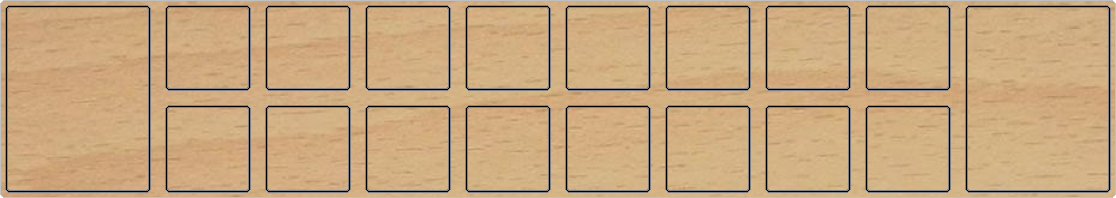
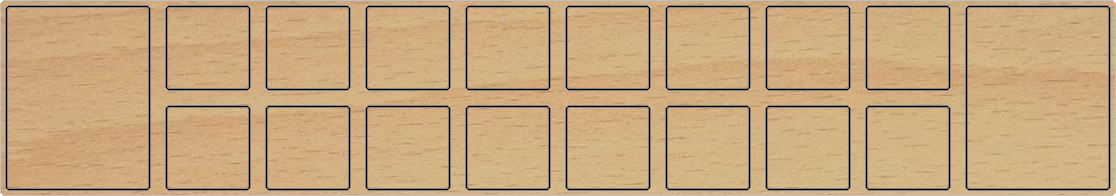
Ohvalhu (extension)

Changed region(s): [[0.1523, 0.4286, 0.853, 0.4898], [0.1523, 0.5204, 0.853, 0.551]]

diff --git a/src/debug/games/mancala/ohvalhu-extension.js b/src/debug/games/mancala/ohvalhu-extension.js
@@ -1,0 +1,200 @@
+(function() {
+
+Dagaz.Model.WIN_CNT = 64;
+Dagaz.Model.SIZE    = 17;
+
+Dagaz.View.DX       = 0;
+Dagaz.View.DY       = 0;
+Dagaz.View.MX       = 25;
+
+var checkVersion = Dagaz.Model.checkVersion;
+
+Dagaz.Model.checkVersion = function(design, name, value) {
+  if (name != "ohvalhu-extension") {
+      checkVersion(design, name, value);
+  }
+}
+
+var addReserve = function(x, y) {
+  var r = Math.abs(x) + y;
+  if (x < 0) {
+      return -r;
+  } else {
+      return r;
+  }
+}
+
+var toReserve = function(design, board, player, move, cnt) {
+  var pos = design.navigate(player, 0, 2);
+  if ((cnt != 0) && (pos !== null)) {
+      piece = board.getPiece(pos);
+      if (piece === null) {
+          piece = Dagaz.Model.createPiece(0, player);
+          piece = piece.setValue(0, cnt);
+          move.dropPiece(pos, piece);
+      } else {
+          cnt = addReserve(cnt, Math.abs(+piece.getValue(0)));
+          piece = piece.setValue(0, cnt);
+          move.movePiece(pos, pos, piece);
+      }
+  }
+}
+
+var CheckInvariants = Dagaz.Model.CheckInvariants;
+
+Dagaz.Model.CheckInvariants = function(board) {
+  var design = Dagaz.Model.design;
+  _.each(board.moves, function(move) {
+      var isPool = false;
+      var fr  = 0;
+      var dir = 0;
+      if (move.isSimpleMove()) {
+          var pos = move.actions[0][0][0];
+          if (design.inZone(1, board.player, pos)) {
+              move.failed = true;
+              return;
+          }
+          var piece = board.getPiece(pos);
+          var cnt = Math.abs(+piece.getValue(0));
+          var positions = [];
+          var result = [];
+          result.push(0);
+          positions.push(pos);
+          for (var ix = 1; cnt > 0; cnt--, ix++) {
+               pos = design.navigate(board.player, pos, dir);
+               if (pos === null) {
+                   move.failed = true;
+                   return;
+               }
+               piece = board.getPiece(pos);
+               while ((piece !== null) && (+piece.type == 2)) {
+                   pos = design.navigate(board.player, pos, dir);
+                   if (pos === null) {
+                       move.failed = true;
+                       return;
+                   }
+                   piece = board.getPiece(pos);
+               }
+               if (ix >= Dagaz.Model.SIZE) {
+                   ix = 0;
+               }
+               positions.push(pos);
+               if (ix < result.length) {
+                   result[ix]++;
+               } else {
+                   if (piece === null) {
+                       result.push(1);
+                   } else {
+                       result.push(Math.abs(+piece.getValue(0)) + 1);
+                   }
+               }
+          }
+          ix--;
+          var captured = [];
+          isPool = design.inZone(1, board.player, pos);
+          if ((result[ix] > 1) || isPool) {
+               result[ix] = -result[ix];
+          } else {
+               if (!isPool) {
+                   if (design.inZone(0, board.player, pos) && (result[ix] == 1)) {
+                       pos = design.navigate(board.player, pos, 4);
+                       if (pos !== null) {
+                           piece = board.getPiece(pos);
+                           if ((piece !== null) || (result.length == Dagaz.Model.SIZE) || (_.indexOf(positions, pos) >= 0)) {
+                               captured.push(pos);
+                               fr++;
+                               result[ix] = 0;
+                           }
+                       }
+                   }
+               }
+          }
+          var pos = move.actions[0][0][0];
+          for (var ix = 0; ix < result.length; ix++) {
+               if (_.indexOf(captured, pos) >= 0) {
+                   fr += result[ix];
+                   result[ix] = 0;
+                   captured = _.without(captured, pos);                   
+               }
+               pos = design.navigate(board.player, pos, dir);
+          }
+          _.each(captured, function(pos) {
+               piece = board.getPiece(pos);
+               if (piece !== null) {
+                   fr += Math.abs(+piece.getValue(0));
+                   move.capturePiece(pos);
+               }
+          });
+          var pos = move.actions[0][0][0];
+          for (var ix = 0; ix < result.length; ix++) {
+               piece = board.getPiece(pos);
+               while ((piece !== null) && (+piece.type == 2)) {
+                   pos = design.navigate(board.player, pos, dir);
+                   piece = board.getPiece(pos);
+               }
+               if (design.inZone(1, board.player, pos)) {
+                   result[ix] = addReserve(result[ix], fr);
+                   fr = 0;
+               }
+               var player = board.player;
+               if (!design.inZone(0, board.player, pos) && !design.inZone(1, board.player, pos) && (result[ix] > 0)) {
+                   player = design.nextPlayer(player);
+               }
+               var piece = Dagaz.Model.createPiece(0, player).setValue(0, result[ix]);
+               if (result[ix] == 0) {
+                   if (ix > 0) {
+                       move.capturePiece(pos);
+                       if (ix == 1) {
+                           move.actions[0][2] = [ Dagaz.Model.createPiece(1, board.player) ];
+                       }
+                   }
+               } else {
+                   if (piece !== null) {
+                       if (ix == 1) {
+                           move.actions[0][2] = [ piece ];
+                       } else {
+                           if ((ix > 0) && (board.getPiece(pos) !== null)) {
+                               move.movePiece(pos, pos, piece);
+                           } else {
+                               move.dropPiece(pos, piece);
+                           }
+                       }
+                   }
+               }
+               pos = design.navigate(board.player, pos, dir);
+          }
+          if (!isPool && (fr == 0)) {
+               _.each(design.allPositions(), function(pos) {
+                    if (design.inZone(1, board.player, pos)) {
+                        var piece = board.getPiece(pos);
+                        if (piece !== null) {
+                            var value = +piece.getValue(0);
+                            if (value < 0) {
+                                piece = piece.setValue(0, -value);
+                                move.movePiece(pos, pos, piece);
+                            }
+                        }
+                    }
+               });
+          }
+          toReserve(design, board, board.player, move, fr);
+      }
+  });
+  var ko = [];
+  _.each(design.allPositions(), function(pos) {
+      if (design.inZone(1, board.player, pos)) return;
+      var piece = board.getPiece(pos);
+      if (piece !== null) {
+          var value = +piece.getValue(0);
+          if ((value !== null) && (value < -1)) {
+              ko.push(pos);
+          }
+      }
+  });
+  if (ko.length > 0) {
+      board.ko = ko;
+  }
+  CheckInvariants(board);
+}
+
+})();

diff --git a/src/debug/games/mancala/ohvalhu.htm b/src/debug/games/mancala/ohvalhu.htm
@@ -25,9 +25,9 @@
 <img id="Ko" style="display:none" src="images/ko.png">
 
 <table style="margin:auto; font-family:sans-serif; font-size:14px" id="Table">
-<tr style="height:198px; vertical-align:top">
+<tr style="height:196px; vertical-align:top">
 <td id="CanvasCell" style="width:1116px">
-<canvas id="Canvas" width="1116" height="198" style="cursor:default">Broken canvas...</canvas>
+<canvas id="Canvas" width="1116" height="196" style="cursor:default">Broken canvas...</canvas>
 </td><td style="width:300px;">
 <div style="height:510px; overflow:auto" id="ScrollDiv">
 <img id="GlyphImage"><p id="HelpText"></p>
@@ -56,6 +56,8 @@
 <script src="../../kernel/controller/utils/move-list-v2.js"></script>
 <script src="mancala-view.js"></script>
 <script src="mancala-setup.js"></script>
+<script src="dakon-restrictions.js"></script>
+<script src="ohvalhu-extension.js"></script>
 <script src="ohvalhu.js"></script>
 <script src="../../kernel/controller/app-v2.js"></script>
 

diff --git a/src/debug/games/mancala/ohvalhu.js b/src/debug/games/mancala/ohvalhu.js
@@ -30,6 +30,7 @@ Dagaz.Model.BuildDesign = function(design) {
     design.checkVersion("pass-turn", "forced");
     design.checkVersion("mancala-setup", "8");
     design.checkVersion("mancala-view", "true");
+    design.checkVersion("dakon-restrictions", "extended");
     design.checkVersion("progressive-levels", "true");
     design.checkVersion("advisor-wait", "5");
 
